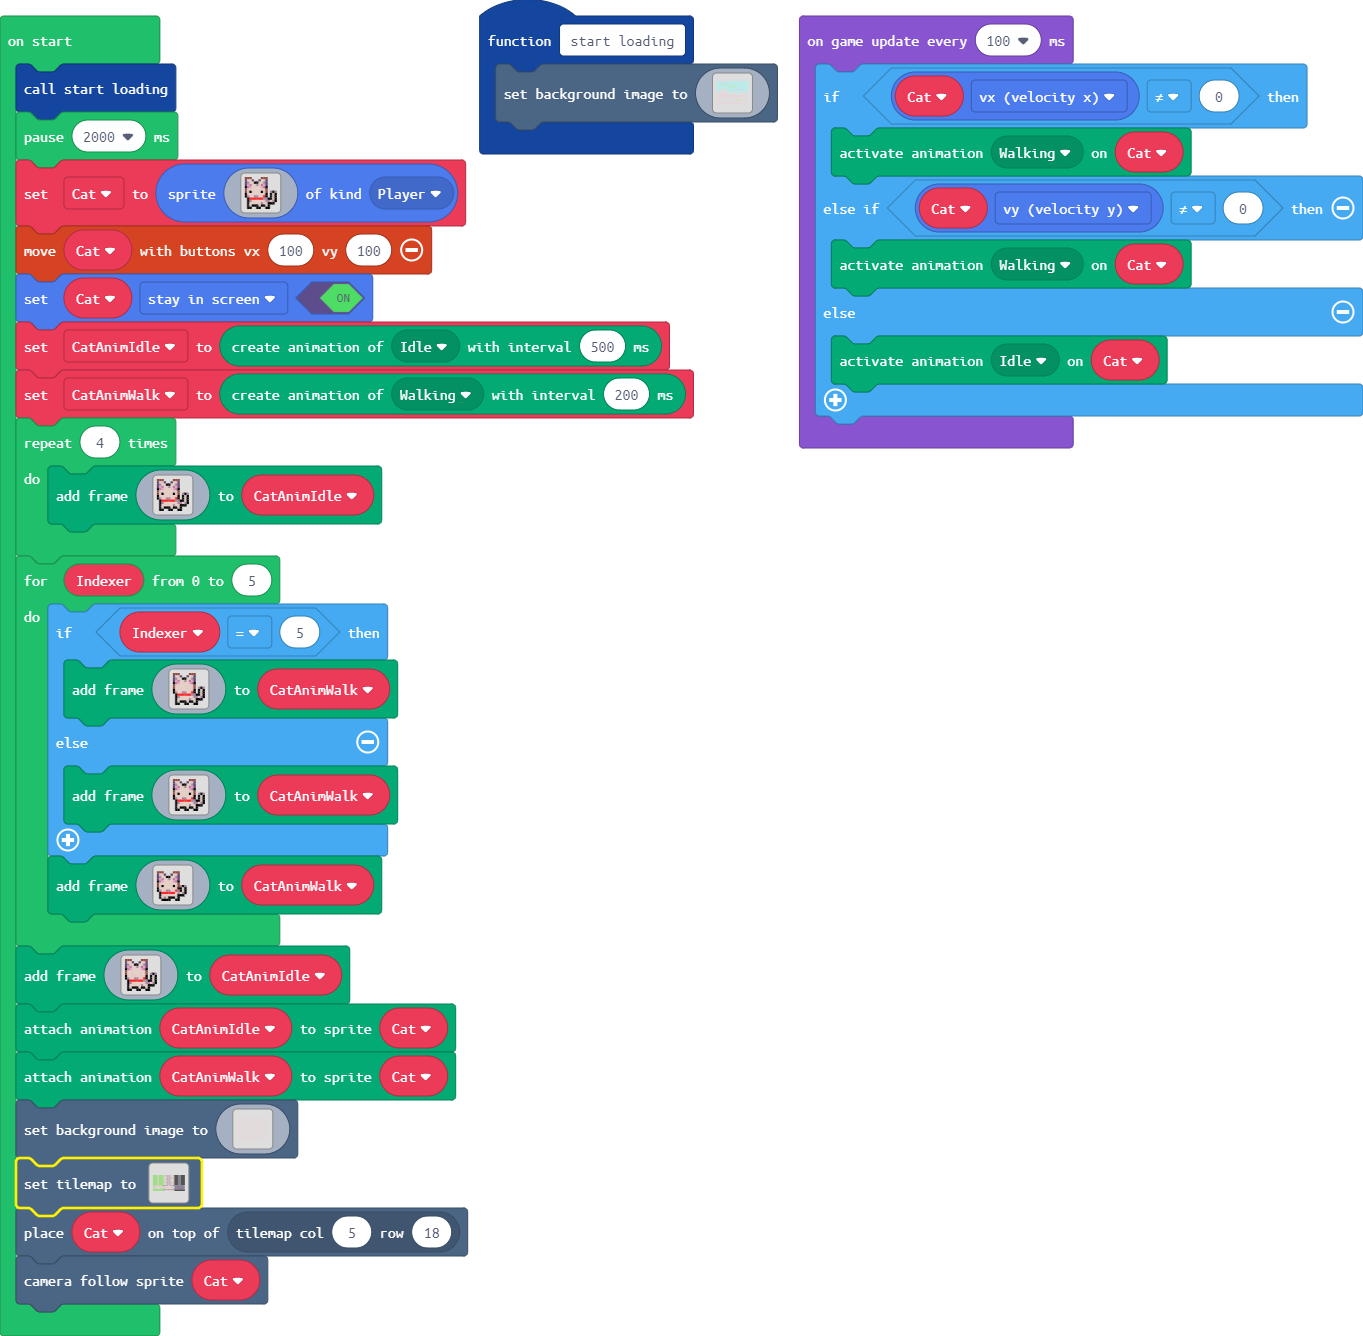
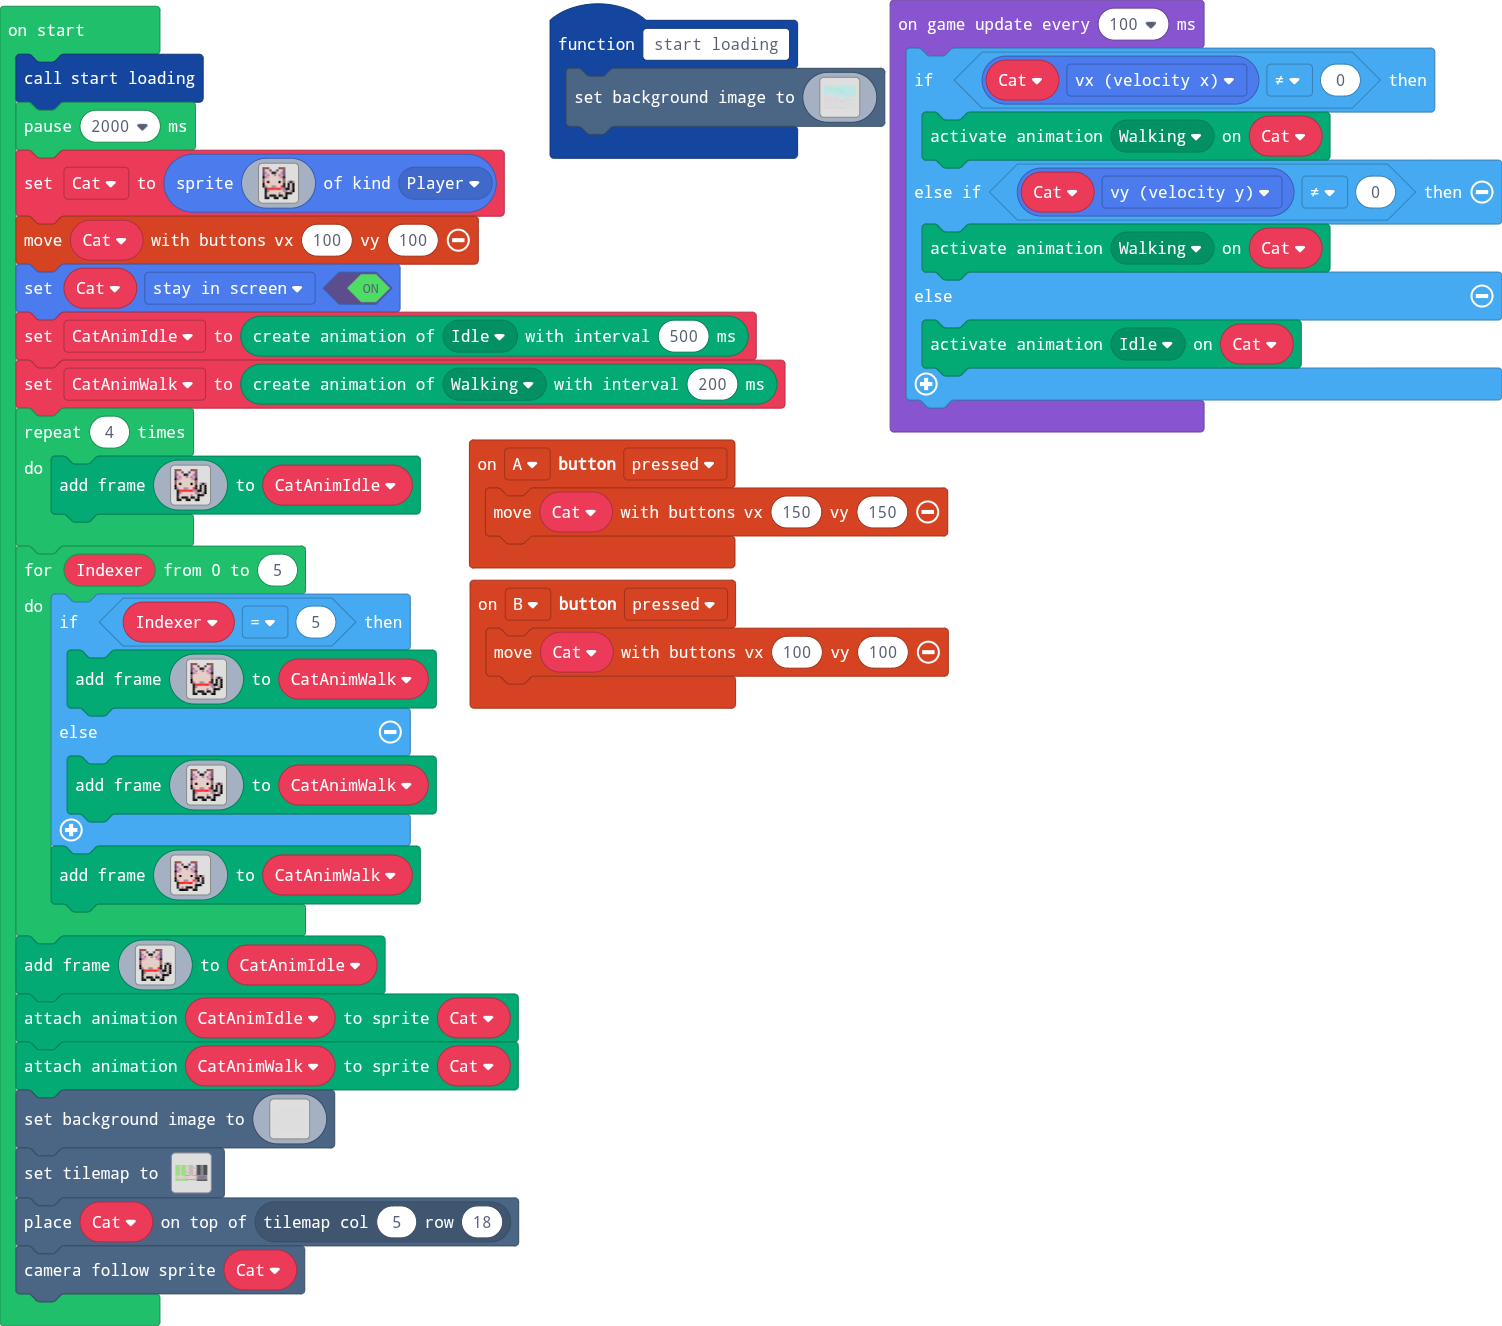
Update main.blocks, main.ts

Changed region(s): [[0.0, 0.0, 1.0, 1.0]]

diff --git a/main.ts b/main.ts
@@ -493,9 +493,16 @@ d d d d d d d d d d d d d d d d d d d d d d d d d d d d d d d d d d d d d d d d 
 d d d d d d d d d d d d d d d d d d d d d d d d d d d d d d d d d d d d d d d d d d d d d d d d d d d d d d d d d d d d d d d d d d d d d d d d d d d d d d d d d d d d d d d d d d d d d d d d d d d d d d d d d d d d d d d d d d d d d d d d d d d d d d d d d d d d d d d d d d d d d d d d d d d d d d d d d d d d d d d d 
 `)
 }
+controller.B.onEvent(ControllerButtonEvent.Pressed, function () {
+    controller.moveSprite(Cat, 100, 100)
+})
+controller.A.onEvent(ControllerButtonEvent.Pressed, function () {
+    controller.moveSprite(Cat, 150, 150)
+})
+let Cat: Sprite = null
 start_loading()
 pause(2000)
-let Cat = sprites.create(img`
+Cat = sprites.create(img`
 e e e . . . . e e e . . . . 
 c d d c . . c d d c . . . . 
 c b d d f f d d b c . . . . 
